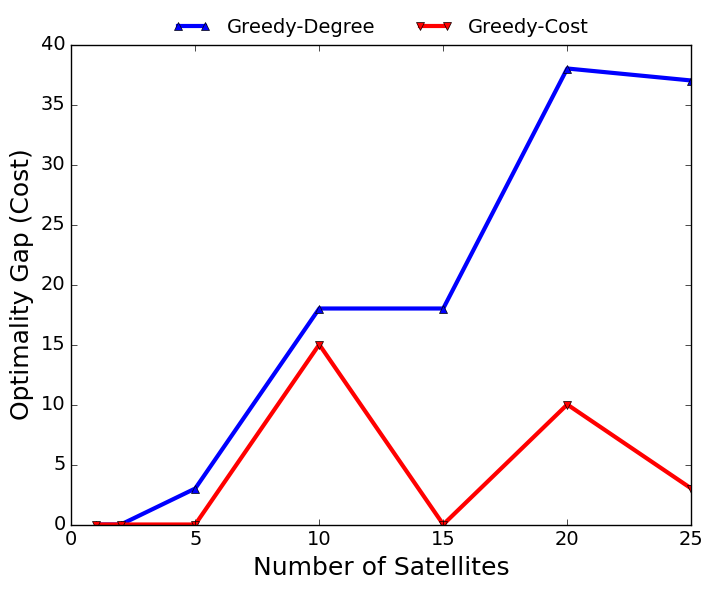
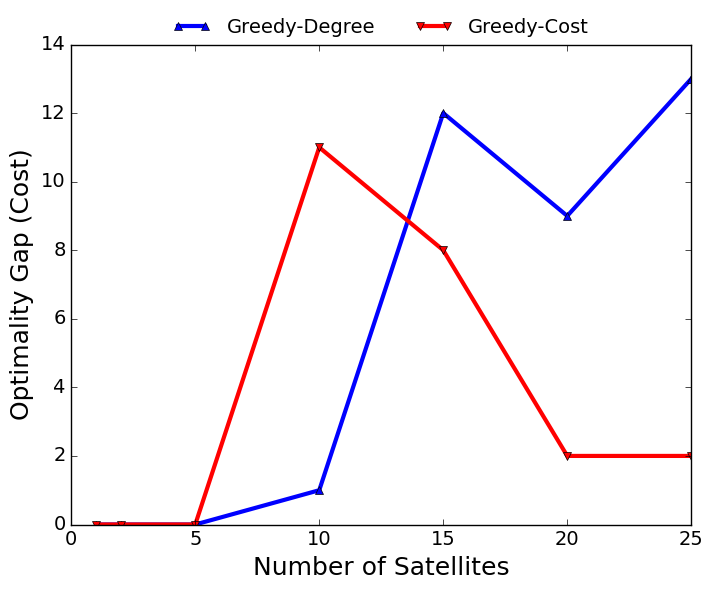
make probability more interesting

diff --git a/optimization_experiments.py b/optimization_experiments.py
@@ -43,7 +43,7 @@ for (num_timesteps, num_locations, num_satellites) in zip(num_timesteps_list, nu
         print(f"Satellite nodes: {satellite_nodes}")
         print(f"Greedy degree satellite set: {greedy_degree_satellite_set}")
         print(f"Brute force satellite set: {brute_force_satellite_set}")
-    deg_times.append((end - start) * 1000)
+    deg_times.append(end - start)
     deg_optimality_gaps.append(greedy_degree_cost - brute_force_cost)
 
     start = time.time()
@@ -56,7 +56,7 @@ for (num_timesteps, num_locations, num_satellites) in zip(num_timesteps_list, nu
         print(f"Satellite nodes: {satellite_nodes}")
         print(f"Greedy cost satellite set: {greedy_cost_satellite_set}")
         print(f"Brute force satellite set: {brute_force_satellite_set}")
-    cost_times.append((end - start) * 1000)
+    cost_times.append(end - start)
     cost_optimality_gaps.append(greedy_cost_cost - brute_force_cost)
 
 plt.style.use('classic')
@@ -65,7 +65,7 @@ plt.plot(x_vals, brute_force_times, marker='s', lw=3, label="Brute-Force", color
 plt.plot(x_vals, deg_times, marker='o', lw=3, label="Greedy-Degree", color='blue')
 plt.plot(x_vals, cost_times, marker='x', lw=3, label="Greedy-Cost", color='red')
 plt.xlabel("Number of Satellites", fontsize=18)
-plt.ylabel("Time (ms)", fontsize=18)
+plt.ylabel("Time (s)", fontsize=18)
 plt.legend(loc=(0, 1), frameon=False, ncol=3, fontsize=14)   
 plt.savefig('time_comparison.png', bbox_inches='tight')
 

diff --git a/util.py b/util.py
@@ -5,6 +5,7 @@ from itertools import combinations
 from collections import defaultdict
 import numpy as np
 import math
+from scipy.stats import bernoulli
 
 def create_satellite_bipartite_graph(locations, timesteps, satellites, coverage_prob, min_cost=1, max_cost=10):
     """Previous function with increased coverage probability"""
@@ -28,10 +29,10 @@ def create_satellite_bipartite_graph(locations, timesteps, satellites, coverage_
     
     for s in satellite_nodes:
         # Each satellite covers more location-time pairs
-        num_coverages = math.ceil(coverage_prob * len(tuple_nodes))
-        covered_tuples = random.sample(tuple_nodes, num_coverages)
-        for tuple_node in covered_tuples:
-            G.add_edge(tuple_node, s)
+        covered_tuples = bernoulli.rvs(coverage_prob, size=len(tuple_nodes))
+        for tuple_node, covered in zip(tuple_nodes, covered_tuples):
+            if covered == 1:
+                G.add_edge(tuple_node, s)
     
     return G, tuple_nodes, satellite_nodes
 
